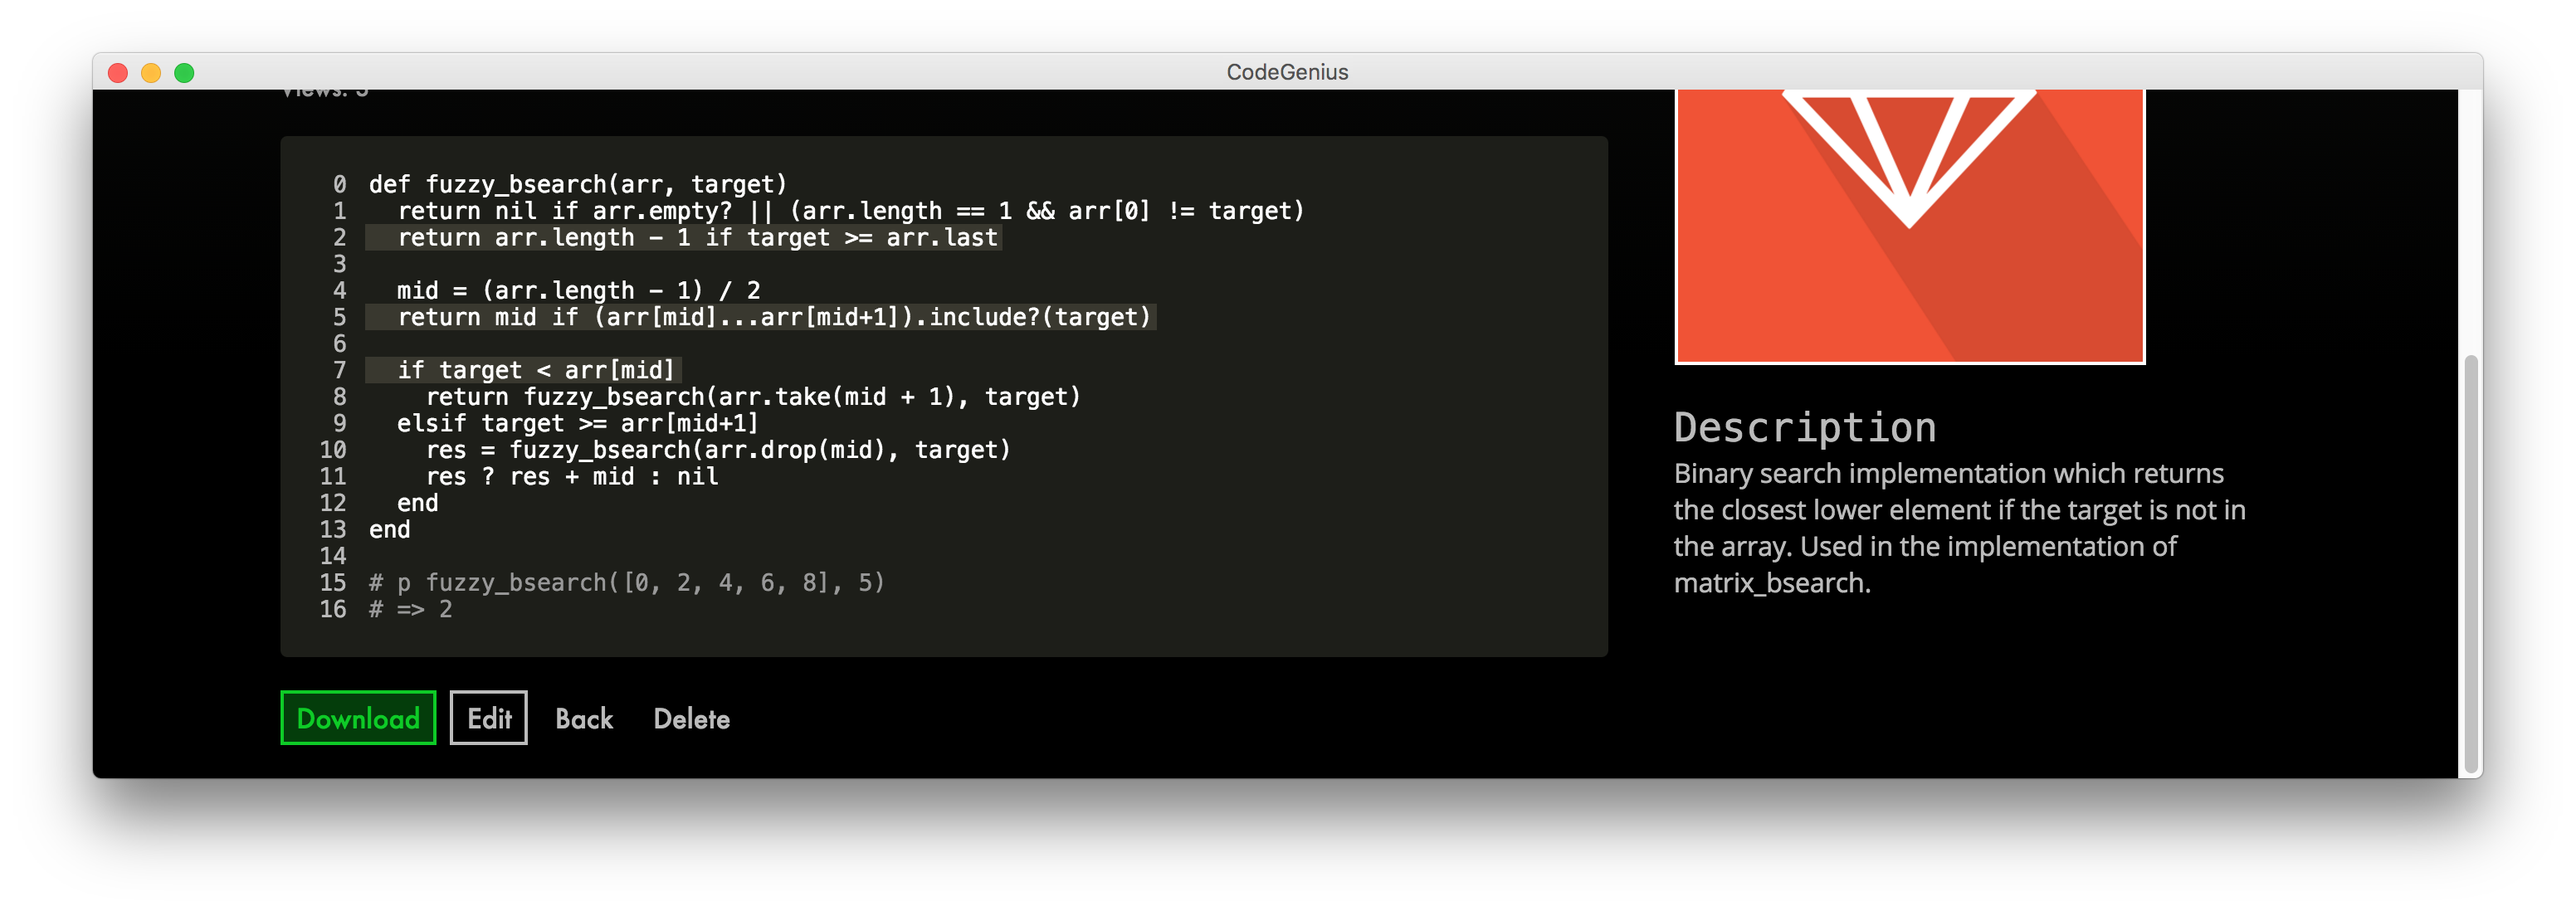
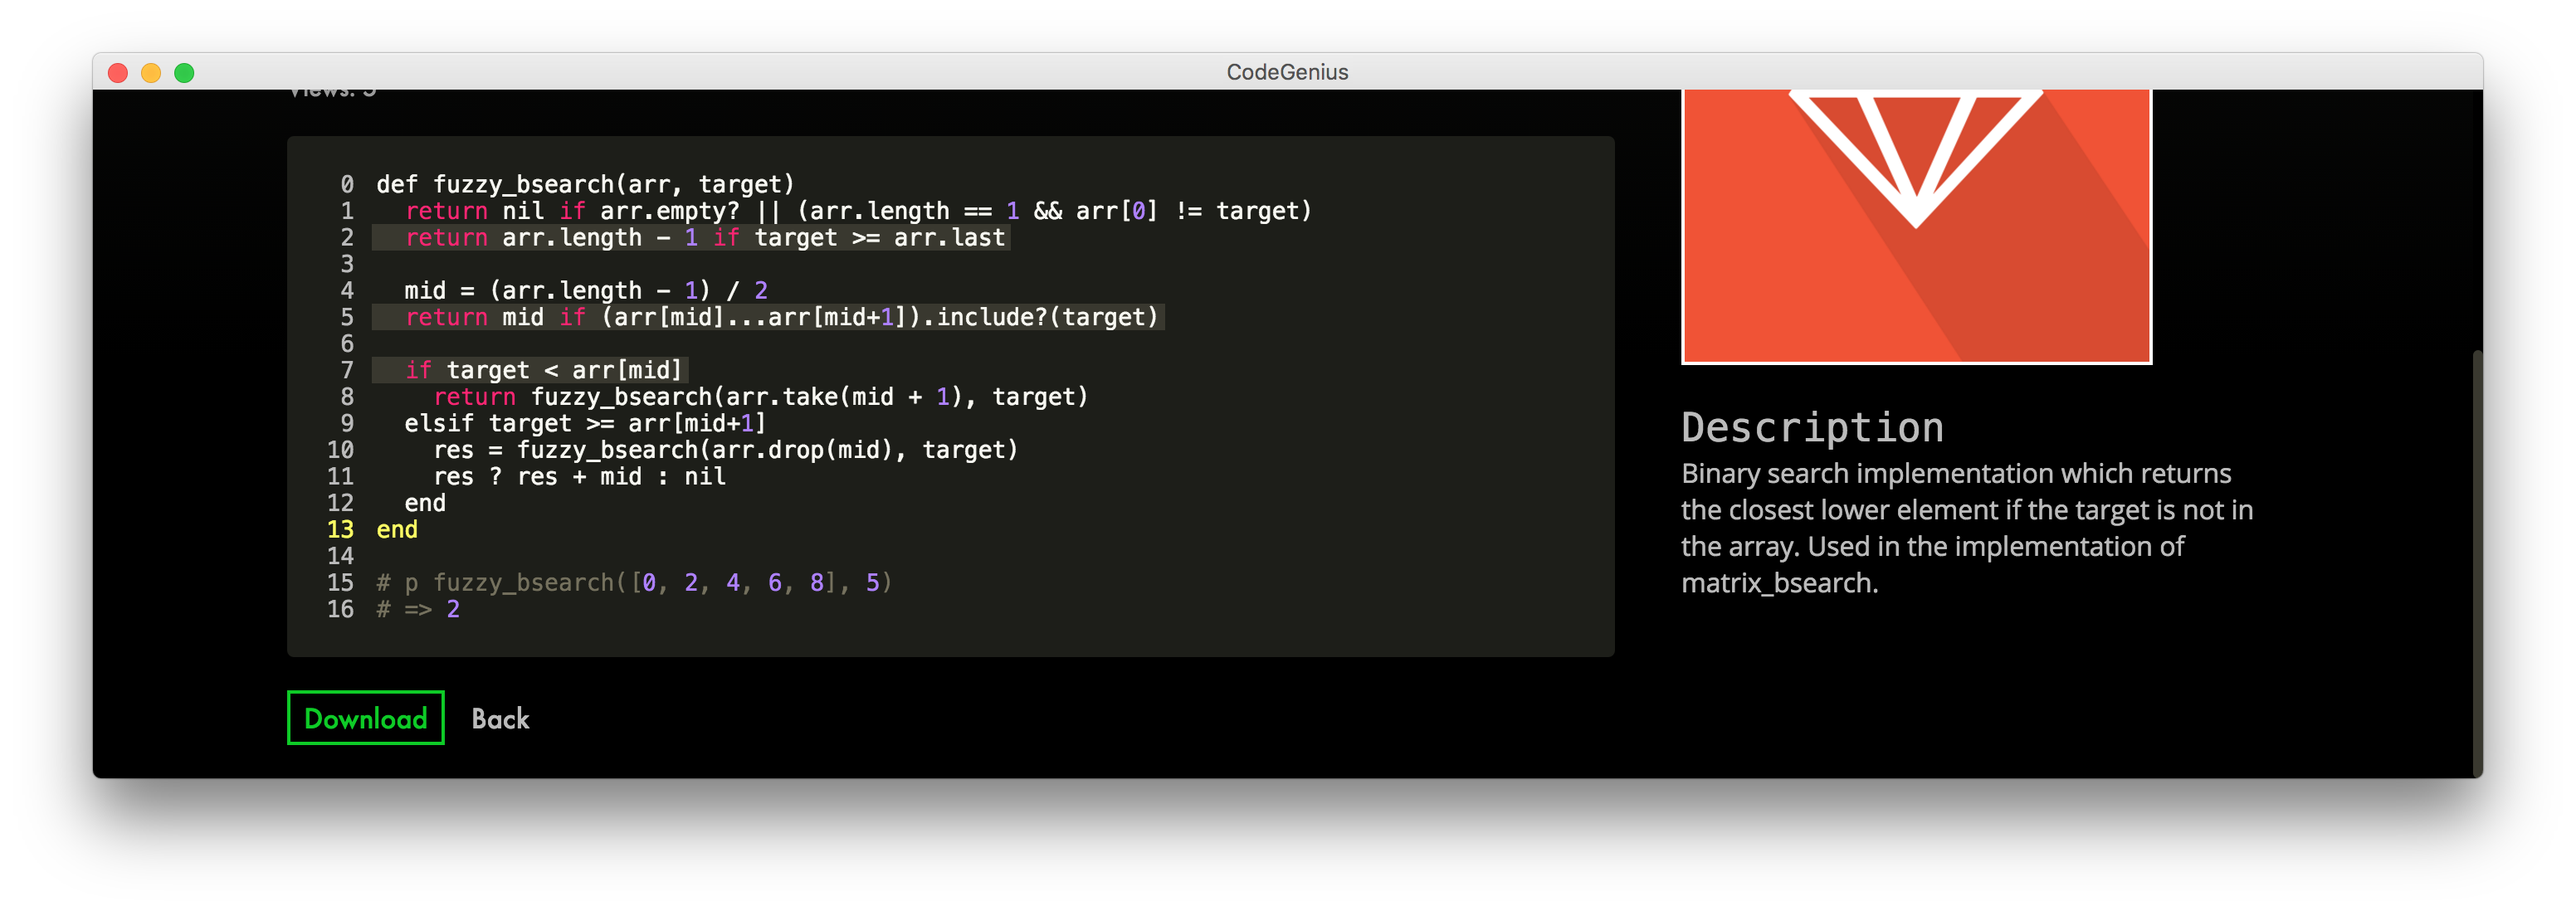
update readme

diff --git a/README.md b/README.md
@@ -52,7 +52,7 @@ The searchbar submits an AJAX request for all the snippet titles upon loading. B
 
 ### Snippets & Annotations
 
-Users can view individual code snippets. Clicking on an annotated line reveals the annotation, while clicking on other lines opens a form to create a new annotation.
+Users can view individual code snippets. Clicking on an annotated line reveals the annotation, while clicking on other lines opens a form to create a new annotation. Syntax highlighting is implemented using [highlight.js](https://highlightjs.org/).
 
 The annotation logic works as follows:
 
